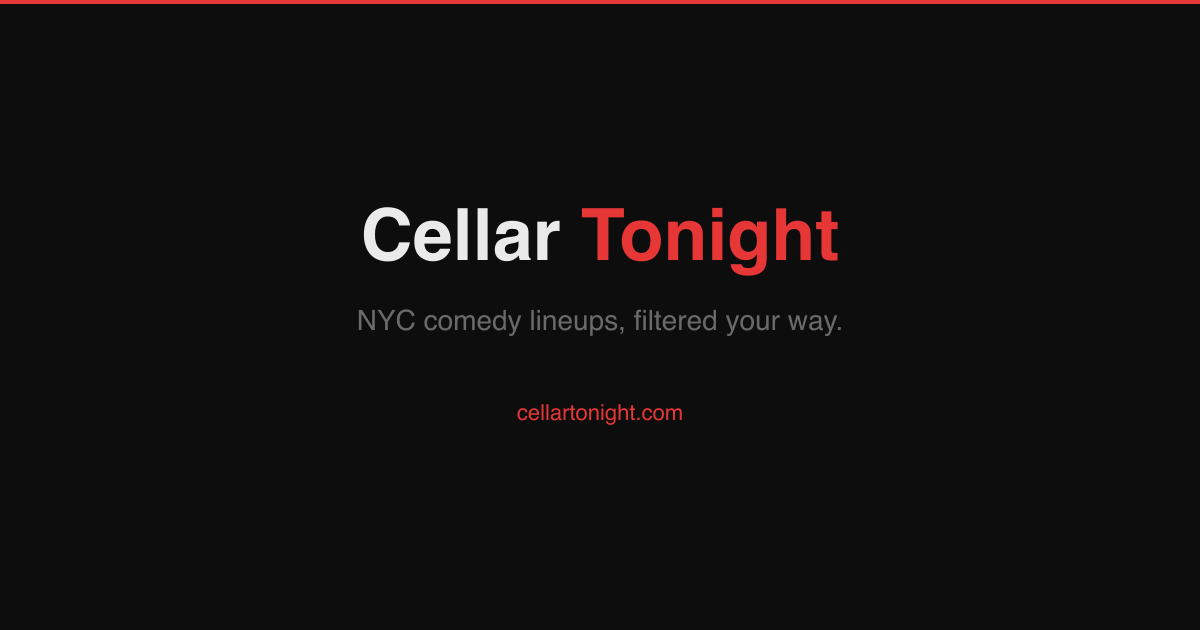
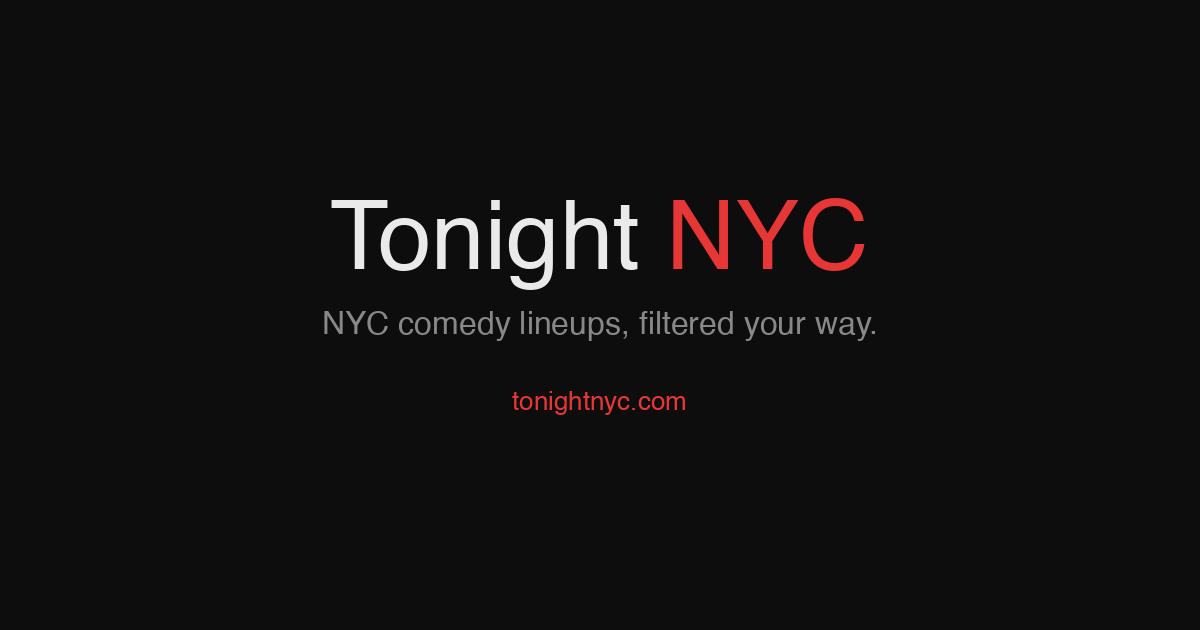
Update OG meta tags and image to tonightnyc.com

Changed region(s): [[0.2467, 0.3016, 0.74, 0.5429], [0.0, 0.0, 1.0, 0.0302], [0.4317, 0.6032, 0.5858, 0.6937]]

diff --git a/public/index.html b/public/index.html
@@ -7,13 +7,13 @@
   <link rel="icon" type="image/svg+xml" href="favicon.svg">
   <meta property="og:title" content="Tonight NYC — NYC Comedy Lineups">
   <meta property="og:description" content="Every NYC comedy show, filtered your way. Mark favorites, skip regulars, book the right set.">
-  <meta property="og:url" content="https://cellartonight.com">
-  <meta property="og:image" content="https://cellartonight.com/og-image.png">
+  <meta property="og:url" content="https://tonightnyc.com">
+  <meta property="og:image" content="https://tonightnyc.com/og-image.png">
   <meta property="og:image:width" content="1200">
   <meta property="og:image:height" content="630">
   <meta property="og:type" content="website">
   <meta name="twitter:card" content="summary_large_image">
-  <meta name="twitter:image" content="https://cellartonight.com/og-image.png">
+  <meta name="twitter:image" content="https://tonightnyc.com/og-image.png">
   <meta name="description" content="NYC comedy lineups from Comedy Cellar, The Stand, and more. Per-show breakdowns, favorites, skips, and direct booking.">
   <meta http-equiv="Cache-Control" content="no-cache, no-store, must-revalidate">
   <meta http-equiv="Pragma" content="no-cache">